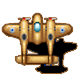
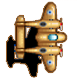
superAce first appearance

diff --git a/1942-FeedTheBirds/src/GameAction/GamePlay.cpp b/1942-FeedTheBirds/src/GameAction/GamePlay.cpp
@@ -164,7 +164,7 @@ void GamePlay::initGameEngine() {
 	MovingAnimator *deathAnimator = new MovingAnimator();
 
 
-	superAce = new SuperAce(200, 400, (AnimationFilm*)AnimationFilmHolder::getSingleton()->getFilm("StartButton"),
+	superAce = new SuperAce(200, 300, (AnimationFilm*)AnimationFilmHolder::getSingleton()->getFilm("superAce"),
 		takeOffAnimation, takeOffAnimator, 
 		landingAnimation, landingAnimator,
 		deathAnimation, deathAnimator);
@@ -289,6 +289,8 @@ void GamePlay::render(unsigned long timestamp) {
 void GamePlay::displayMainScreen(unsigned long now) {
 	if (gameState == GAME_STATE_MAINGAME) {
 		Terrain::getInstance().drawBackground();
+
+		superAce->display(Rect(0, 0, 0, 0));
 		al_flip_display();
 		al_clear_to_color(al_map_rgb(0, 0, 0));
 		Terrain::getInstance().updateBackground();

diff --git a/1942-FeedTheBirds/include/Objects/Characters/SuperAce.h b/1942-FeedTheBirds/include/Objects/Characters/SuperAce.h
@@ -6,7 +6,7 @@
 #include "../../Animator/TimerTickAnimator.h"
 #include "../../Animator/FlashingAnimator.h"
 
-class SuperAce : Sprite {
+class SuperAce : public Sprite {
 public:
 	SuperAce::SuperAce(Dim _x, Dim _y, AnimationFilm* film,
 		MovingAnimation *_takeOffAnimation, MovingAnimator *_takeOffAnimator,
